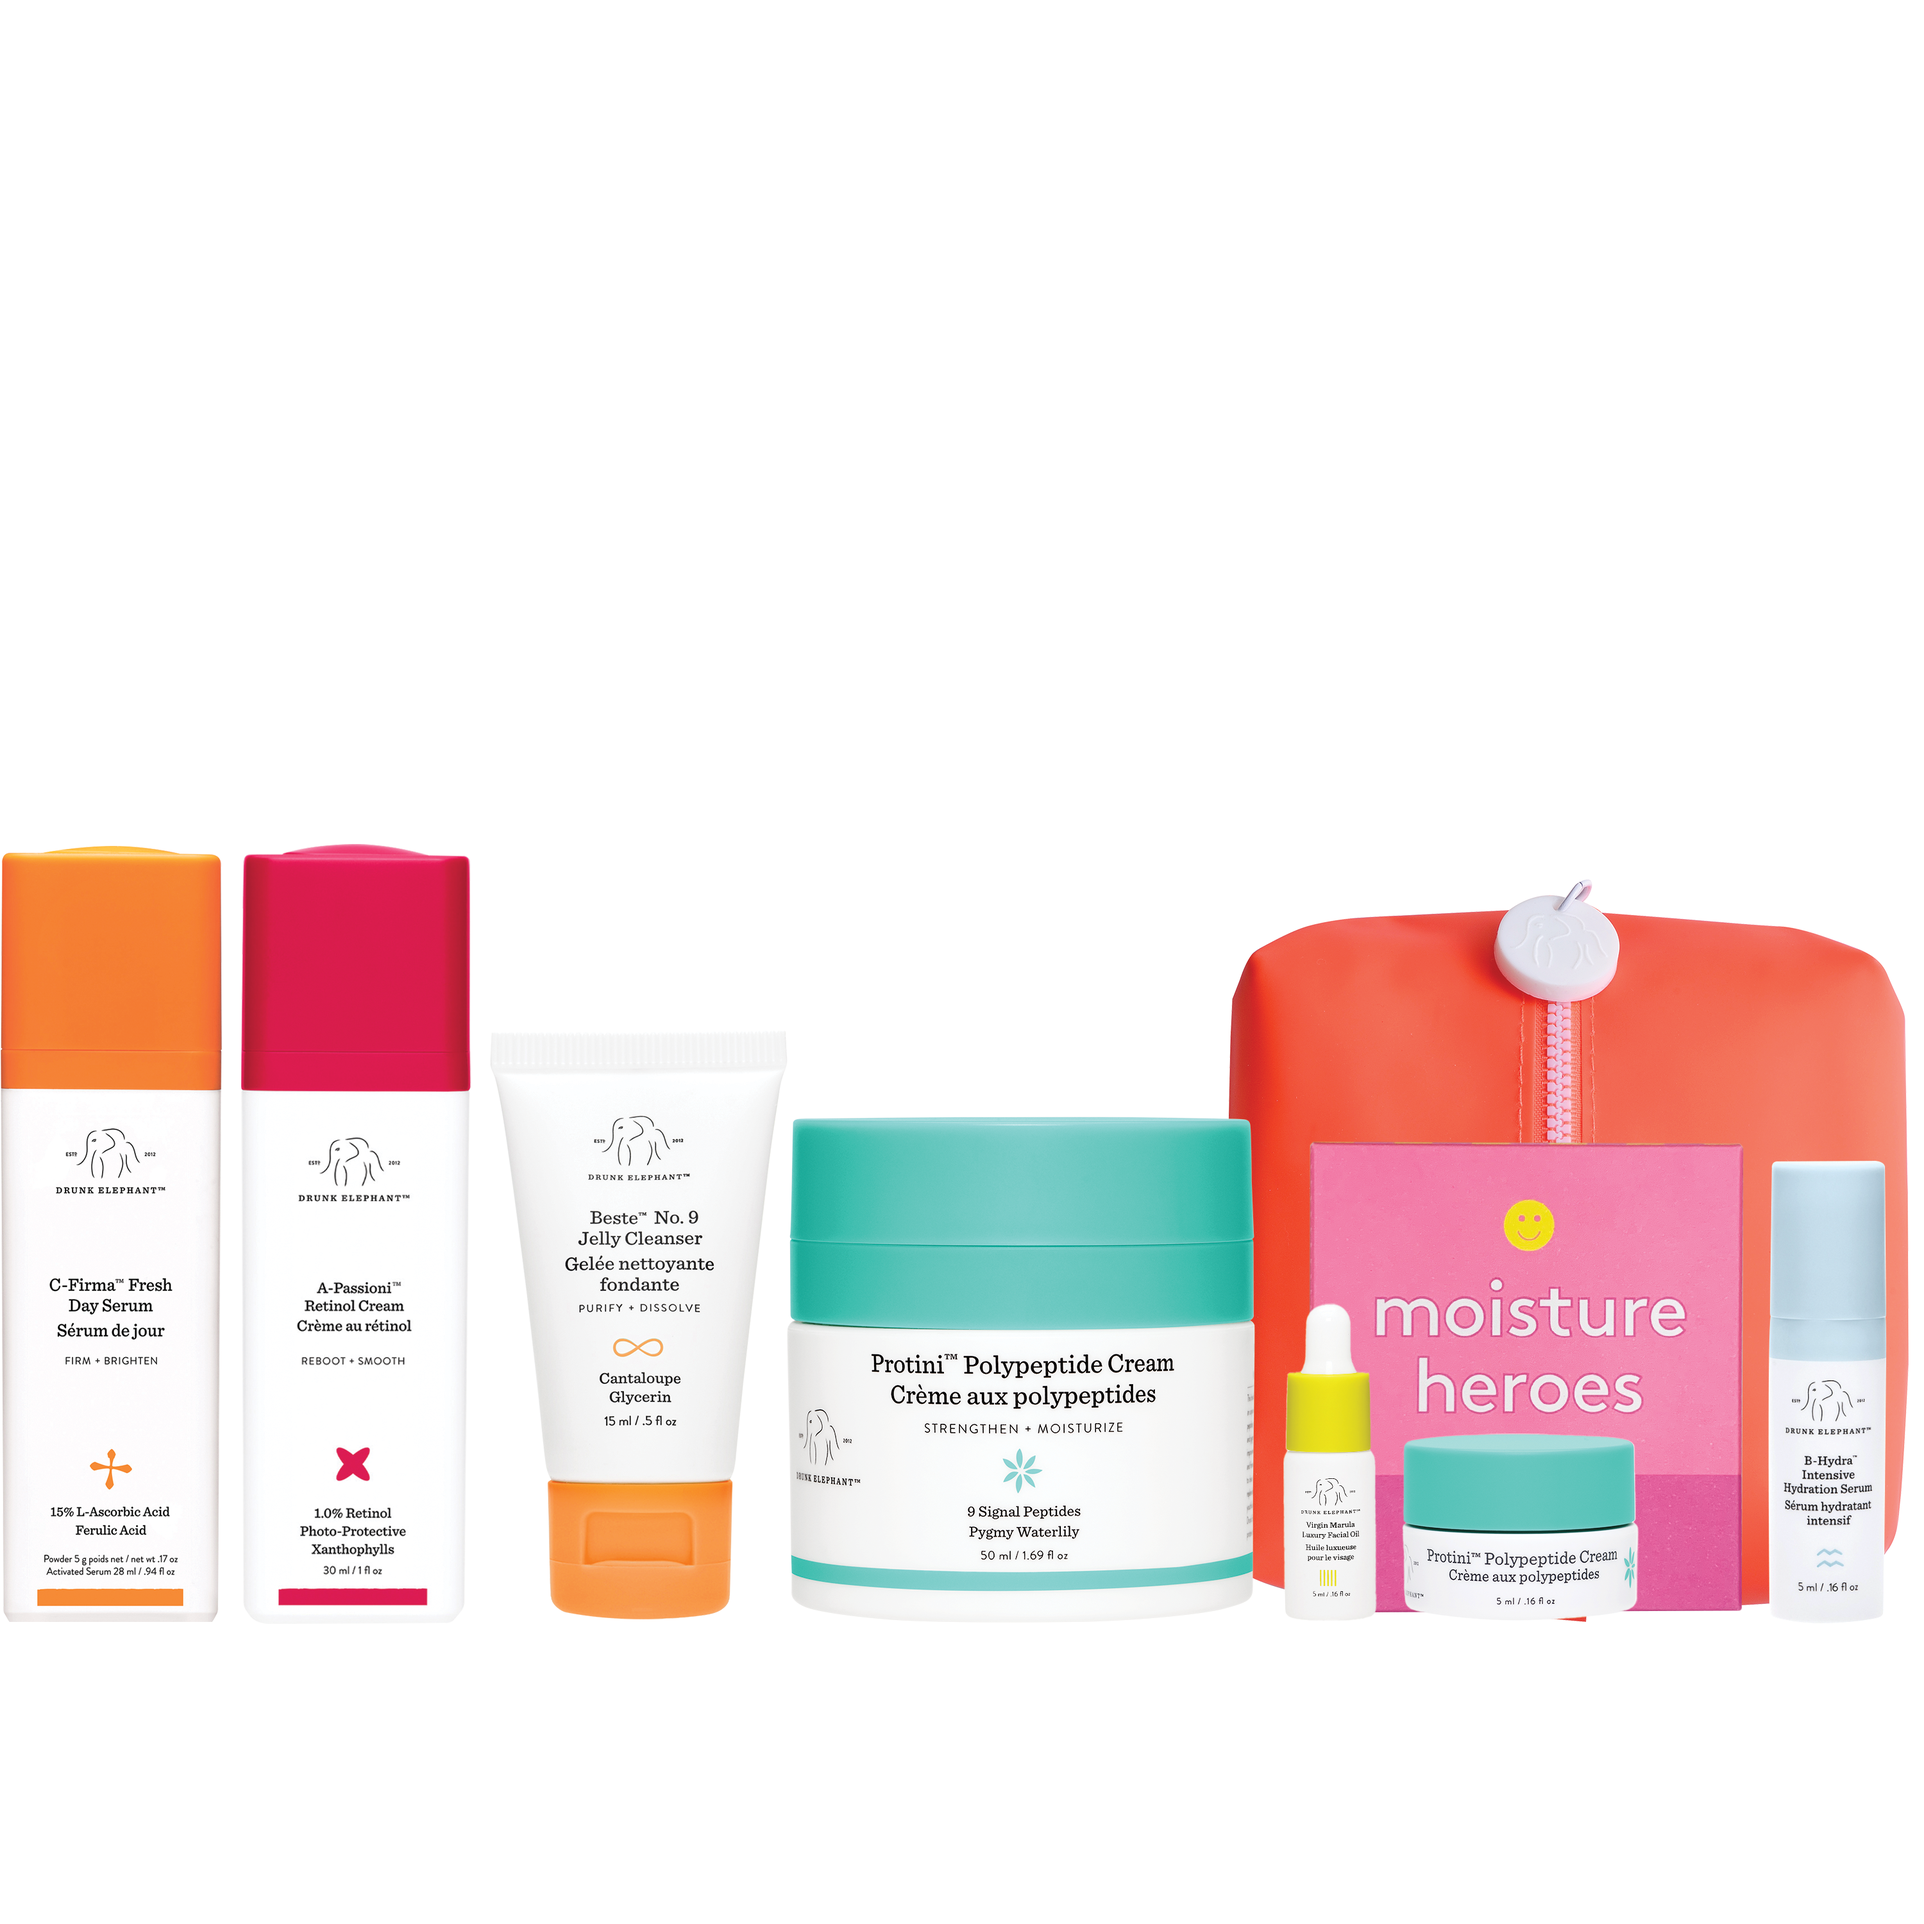
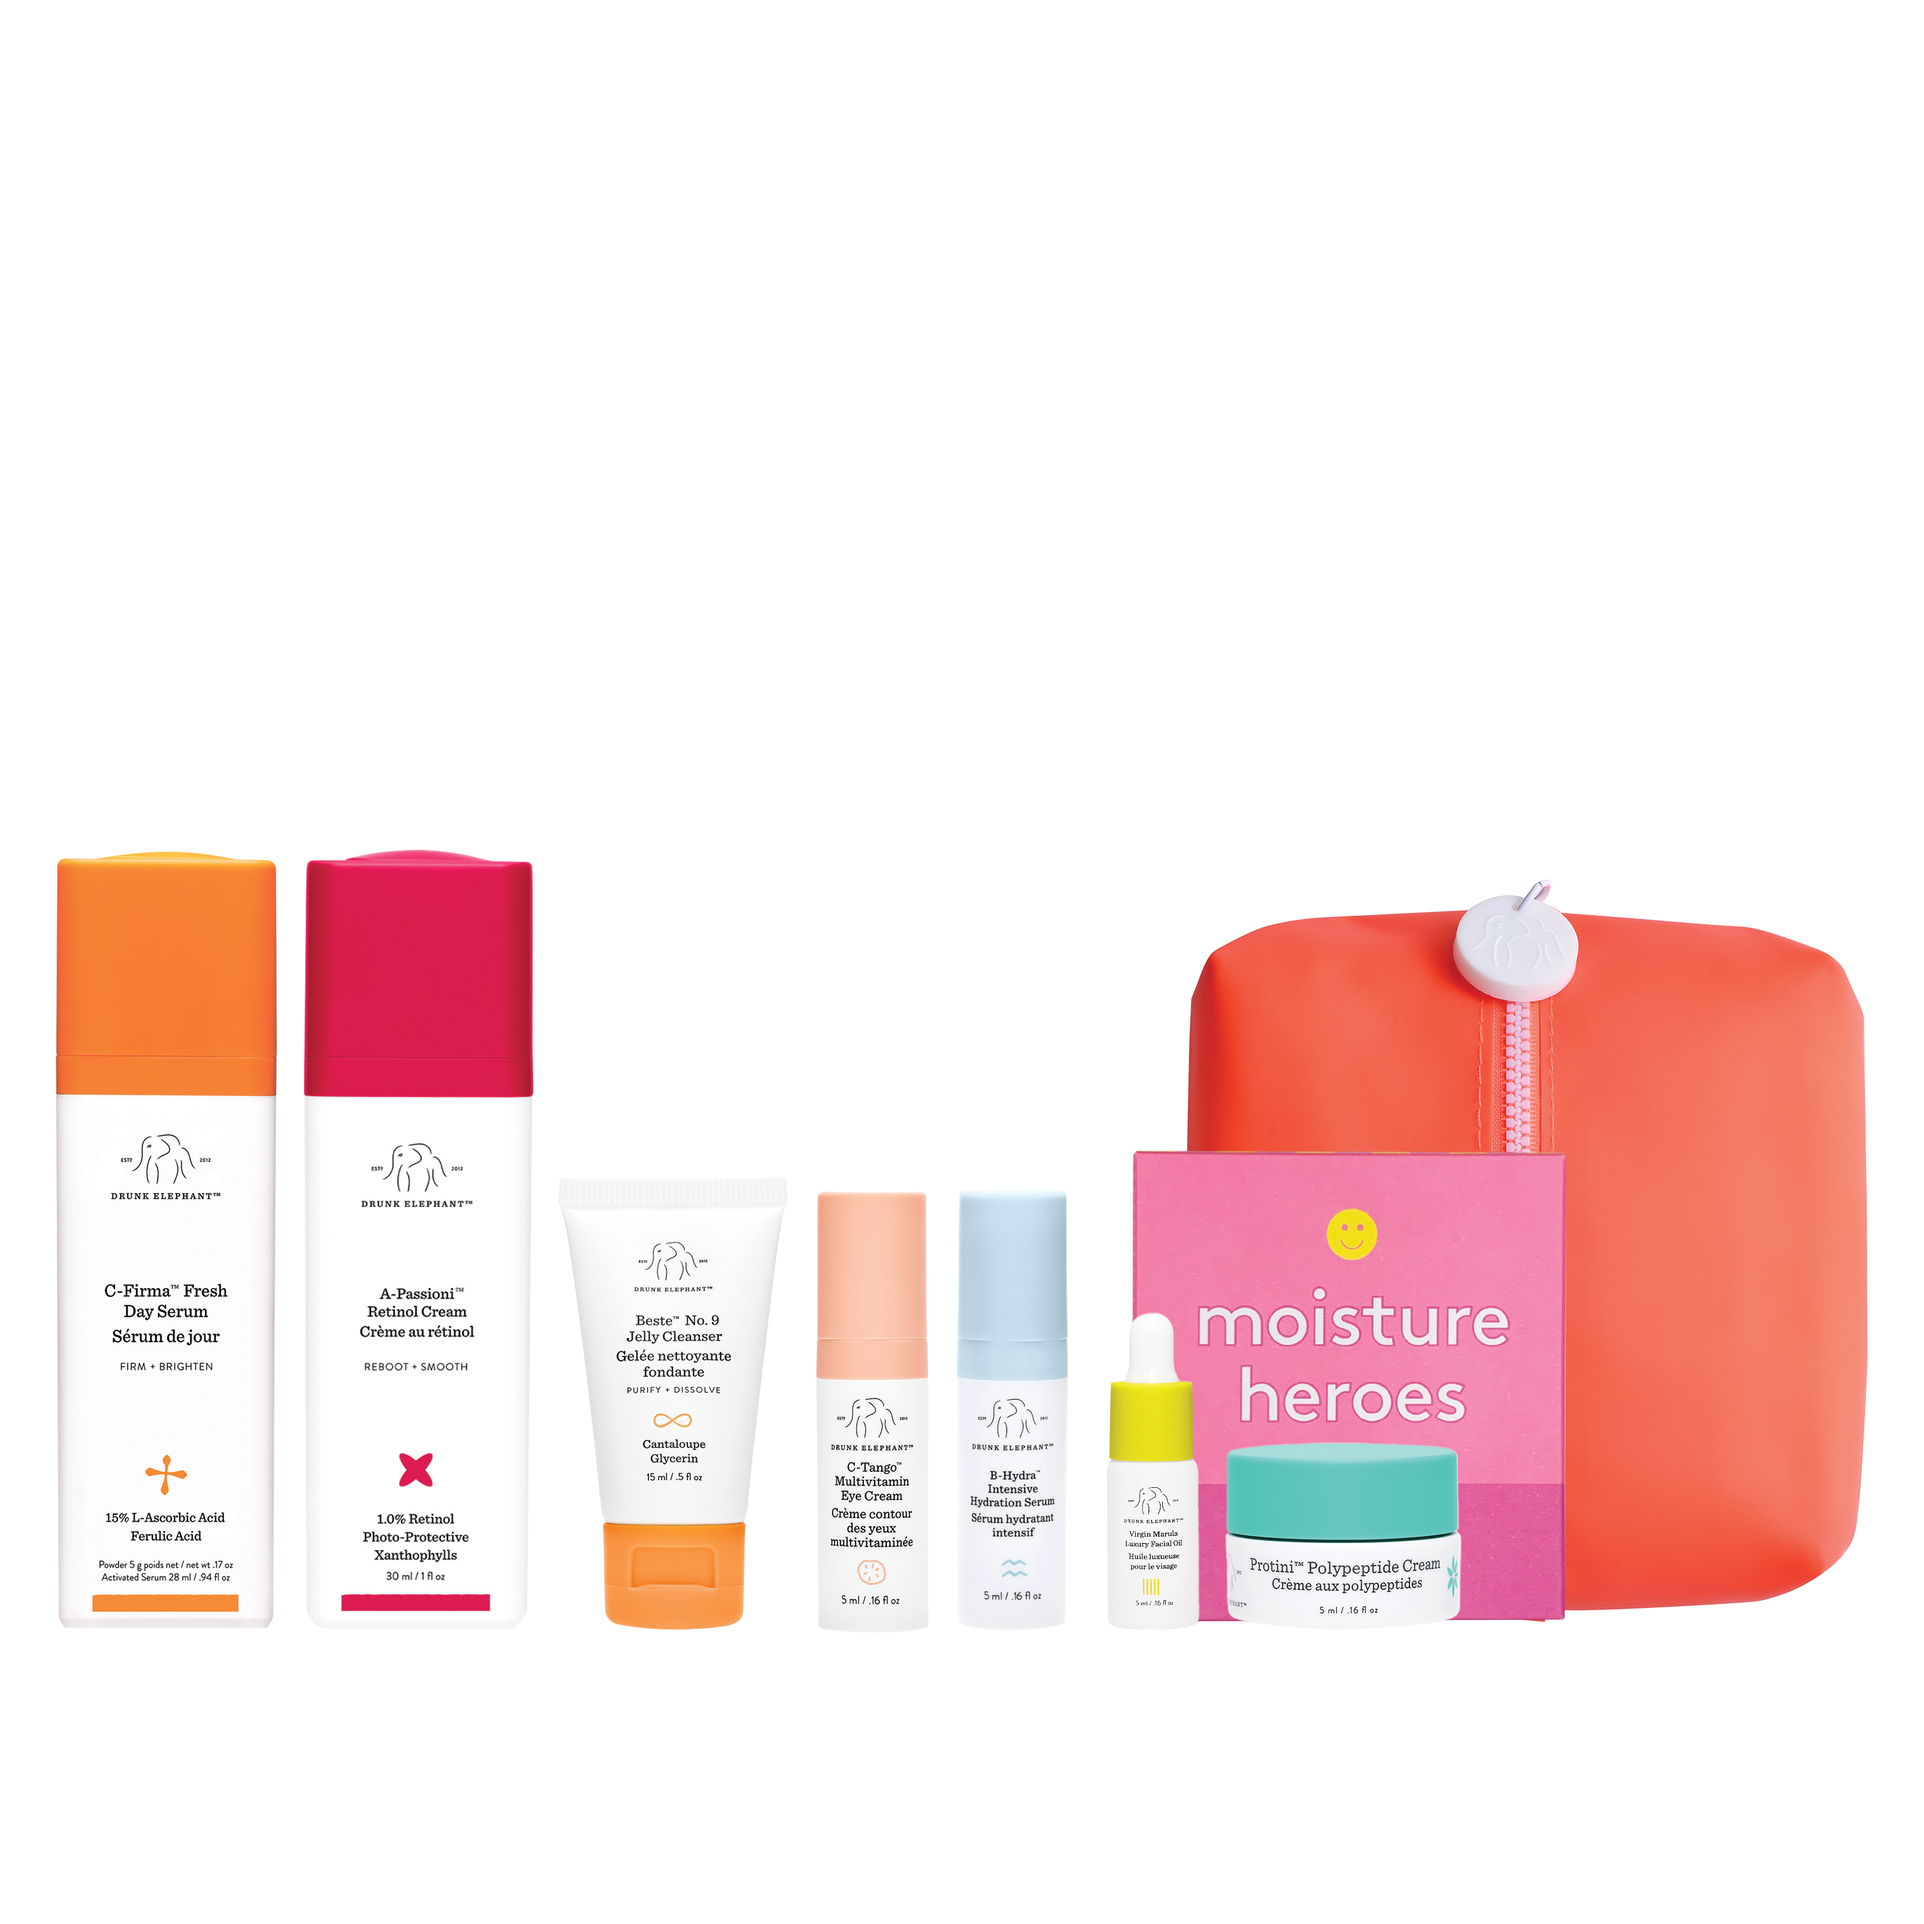
DE 0628 產品調整、kv 按鈕調整

Changed region(s): [[0.279, 0.465, 0.992, 0.868], [0.0, 0.434, 0.279, 0.837]]

diff --git a/css/public.css b/css/public.css
@@ -3131,9 +3131,9 @@ header .ShinKong .text_box .text .span_br { display: block; }
 @media screen and (max-width: 1440px) and (min-width: 1025px) { .banner .banner_box_w .banner_btn_boxs { bottom: 7vw; left: 50%; } }
 @media screen and (max-width: 1024px) and (min-width: 769px) { .banner .banner_box_w .banner_btn_boxs { bottom: 7vw; left: 50%; } }
 @media screen and (max-width: 768px) and (min-width: 451px) { .banner .banner_box_w .banner_btn_boxs { bottom: 16%; left: 50.7%; } }
-@media screen and (max-width: 450px) and (min-width: 376px) { .banner .banner_box_w .banner_btn_boxs { flex-direction: column; bottom: 35%; left: 55%; } }
-@media screen and (max-width: 375px) and (min-width: 321px) { .banner .banner_box_w .banner_btn_boxs { flex-direction: column; bottom: 34%; left: 55.5%; } }
-@media screen and (max-width: 320px) and (min-width: 0) { .banner .banner_box_w .banner_btn_boxs { flex-direction: column; bottom: 35%; left: 55%; } }
+@media screen and (max-width: 450px) and (min-width: 376px) { .banner .banner_box_w .banner_btn_boxs { flex-direction: column; bottom: 36.5%; left: 56.5%; } }
+@media screen and (max-width: 375px) and (min-width: 321px) { .banner .banner_box_w .banner_btn_boxs { flex-direction: column; bottom: 35.5%; left: 56.5%; } }
+@media screen and (max-width: 320px) and (min-width: 0) { .banner .banner_box_w .banner_btn_boxs { flex-direction: column; bottom: 36%; left: 57%; } }
 .banner .banner_box_w .banner_btn_boxs .banner_btn_box:nth-of-type(1) { margin-right: 2.5rem; }
 .banner .banner_box_w .banner_btn_boxs .banner_btn_box:nth-of-type(2) { margin-left: 2.5rem; }
 @media screen and (max-width: 1440px) and (min-width: 1025px) { .banner .banner_box_w .banner_btn_boxs .banner_btn_box:nth-of-type(1) { margin-right: 1.75rem; }
@@ -3142,27 +3142,27 @@ header .ShinKong .text_box .text .span_br { display: block; }
   .banner .banner_box_w .banner_btn_boxs .banner_btn_box:nth-of-type(2) { margin-left: 1rem; } }
 @media screen and (max-width: 768px) and (min-width: 451px) { .banner .banner_box_w .banner_btn_boxs .banner_btn_box:nth-of-type(1) { margin-right: 1rem; }
   .banner .banner_box_w .banner_btn_boxs .banner_btn_box:nth-of-type(2) { margin-left: 1rem; } }
-@media screen and (max-width: 450px) and (min-width: 376px) { .banner .banner_box_w .banner_btn_boxs .banner_btn_box:nth-of-type(1) { margin-right: 0; margin-bottom: .3rem; }
-  .banner .banner_box_w .banner_btn_boxs .banner_btn_box:nth-of-type(2) { margin-top: .3rem; margin-left: 0; } }
-@media screen and (max-width: 375px) and (min-width: 321px) { .banner .banner_box_w .banner_btn_boxs .banner_btn_box:nth-of-type(1) { margin-right: 0; margin-bottom: .3rem; }
-  .banner .banner_box_w .banner_btn_boxs .banner_btn_box:nth-of-type(2) { margin-top: .3rem; margin-left: 0; } }
+@media screen and (max-width: 450px) and (min-width: 376px) { .banner .banner_box_w .banner_btn_boxs .banner_btn_box:nth-of-type(1) { margin-right: 0; margin-bottom: .5rem; }
+  .banner .banner_box_w .banner_btn_boxs .banner_btn_box:nth-of-type(2) { margin-top: .5rem; margin-left: 0; } }
+@media screen and (max-width: 375px) and (min-width: 321px) { .banner .banner_box_w .banner_btn_boxs .banner_btn_box:nth-of-type(1) { margin-right: 0; margin-bottom: .5rem; }
+  .banner .banner_box_w .banner_btn_boxs .banner_btn_box:nth-of-type(2) { margin-top: .5rem; margin-left: 0; } }
 @media screen and (max-width: 320px) and (min-width: 0) { .banner .banner_box_w .banner_btn_boxs .banner_btn_box:nth-of-type(1) { margin-right: 0; margin-bottom: .3rem; }
   .banner .banner_box_w .banner_btn_boxs .banner_btn_box:nth-of-type(2) { margin-top: .3rem; margin-left: 0; } }
 .banner .banner_box_w .banner_btn_boxs .banner_btn_box .tip { display: inline-block; margin-top: 1rem; letter-spacing: 2px; color: #fff; }
 @media screen and (max-width: 1024px) and (min-width: 451px) { .banner .banner_box_w .banner_btn_boxs .banner_btn_box .tip { font-size: 12px; } }
 @media screen and (max-width: 450px) and (min-width: 0) { .banner .banner_box_w .banner_btn_boxs .banner_btn_box .tip { display: none; } }
-.banner .banner_box_w .banner_btn_boxs .banner_btn { padding: 1.5rem 0; width: 350px; background-color: #fff; border-radius: 2px; cursor: pointer; }
+.banner .banner_box_w .banner_btn_boxs .banner_btn { padding: 1.5rem 0; width: 350px; background-color: #fff; box-shadow: 6px 6px 0 #d65a7f; border: 1px solid #d65a7f; border-radius: 2px; cursor: pointer; }
 @media screen and (max-width: 1920px) and (min-width: 1441px) { .banner .banner_box_w .banner_btn_boxs .banner_btn { width: 300px; padding: 1rem 0; } }
 @media screen and (max-width: 1440px) and (min-width: 1025px) { .banner .banner_box_w .banner_btn_boxs .banner_btn { width: 220px; padding: 1rem 0; } }
 @media screen and (max-width: 1024px) and (min-width: 769px) { .banner .banner_box_w .banner_btn_boxs .banner_btn { width: 160px; padding: .5rem 0; } }
 @media screen and (max-width: 768px) and (min-width: 451px) { .banner .banner_box_w .banner_btn_boxs .banner_btn { width: 110px; padding: .5rem 0; } }
-@media screen and (max-width: 450px) and (min-width: 376px) { .banner .banner_box_w .banner_btn_boxs .banner_btn { width: 145px; padding: .5rem 0; } }
-@media screen and (max-width: 375px) and (min-width: 321px) { .banner .banner_box_w .banner_btn_boxs .banner_btn { width: 130px; padding: .5rem 0; } }
-@media screen and (max-width: 320px) and (min-width: 0) { .banner .banner_box_w .banner_btn_boxs .banner_btn { width: 110px; padding: .25rem; } }
-.banner .banner_box_w .banner_btn_boxs .banner_btn span { font-size: 2vw; font-weight: normal; font-family: 'NotoSans TC', sans-serif; letter-spacing: 2px; color: #ff3694; vertical-align: middle; }
+@media screen and (max-width: 450px) and (min-width: 376px) { .banner .banner_box_w .banner_btn_boxs .banner_btn { width: 135px; box-shadow: 3px 3px 0 #d65a7f; padding: .3rem 0; } }
+@media screen and (max-width: 375px) and (min-width: 321px) { .banner .banner_box_w .banner_btn_boxs .banner_btn { box-shadow: 3px 3px 0 #d65a7f; width: 120px; padding: .3rem 0; } }
+@media screen and (max-width: 320px) and (min-width: 0) { .banner .banner_box_w .banner_btn_boxs .banner_btn { box-shadow: 3px 3px 0 #d65a7f; width: 100px; padding: .25rem; } }
+.banner .banner_box_w .banner_btn_boxs .banner_btn span { font-size: 2vw; font-weight: bold; font-family: 'NotoSans TC', sans-serif; letter-spacing: 2px; color: #ff3694; vertical-align: middle; }
 @media screen and (max-width: 450px) and (min-width: 321px) { .banner .banner_box_w .banner_btn_boxs .banner_btn span { font-size: 4vw; } }
 @media screen and (max-width: 320px) and (min-width: 0) { .banner .banner_box_w .banner_btn_boxs .banner_btn span { font-size: 3vw; } }
-.banner .banner_box_w .banner_btn_boxs .banner_btn a { font-size: 2vw; font-weight: normal; font-family: 'NotoSans TC', sans-serif; letter-spacing: 2px; color: #ff3694; text-decoration: none; vertical-align: middle; }
+.banner .banner_box_w .banner_btn_boxs .banner_btn a { font-size: 2vw; font-weight: bold; font-family: 'NotoSans TC', sans-serif; letter-spacing: 2px; color: #ff3694; text-decoration: none; vertical-align: middle; }
 @media screen and (max-width: 450px) and (min-width: 321px) { .banner .banner_box_w .banner_btn_boxs .banner_btn a { font-size: 4vw; } }
 @media screen and (max-width: 320px) and (min-width: 0) { .banner .banner_box_w .banner_btn_boxs .banner_btn a { font-size: 3vw; } }
 .banner .banner_box_m { position: relative; }

diff --git a/scss/public.scss b/scss/public.scss
@@ -198,20 +198,20 @@ header {
 
 			@include range-width(376px, 451px) {
 				flex-direction: column;
-				bottom: 35%;
-				left: 55%;
+				bottom: 36.5%;
+				left: 56.5%;
 			}
 
 			@include range-width(321px, 376px) {
 				flex-direction: column;
-				bottom: 34%;
-				left: 55.5%;
+				bottom: 35.5%;
+				left: 56.5%;
 			}
 
 			@include range-width(0, 321px) {
 				flex-direction: column;
-				bottom: 35%;
-				left: 55%;
+				bottom: 36%;
+				left: 57%;
 			}
 
 			.banner_btn_box {
@@ -257,11 +257,11 @@ header {
 				@include range-width(376px, 451px) {
 					&:nth-of-type(1) {
 						margin-right: 0;
-						margin-bottom: .3rem;
+						margin-bottom: .5rem;
 					}
 					
 					&:nth-of-type(2) {
-						margin-top: .3rem;
+						margin-top: .5rem;
 						margin-left: 0;
 					}
 				}
@@ -269,11 +269,11 @@ header {
 				@include range-width(321px, 376px) {
 					&:nth-of-type(1) {
 						margin-right: 0;
-						margin-bottom: .3rem;
+						margin-bottom: .5rem;
 					}
 					
 					&:nth-of-type(2) {
-						margin-top: .3rem;
+						margin-top: .5rem;
 						margin-left: 0;
 					}
 				}
@@ -311,6 +311,8 @@ header {
 				padding: 1.5rem 0;
 				width: 350px;
 				background-color: #fff; 
+				box-shadow: 6px 6px 0 rgba(214, 90, 127, 1.00);
+				border: 1px solid rgba(214, 90, 127, 1.00);
 				border-radius: 2px;
 				cursor: pointer;
 
@@ -335,23 +337,26 @@ header {
 				}
 
 				@include range-width(376px, 451px) {
-					width: 145px;
-					padding: .5rem 0;
+					width: 135px;
+					box-shadow: 3px 3px 0 rgba(214, 90, 127, 1.00);
+					padding: .3rem 0;
 				}
 
 				@include range-width(321px, 376px) {
-					width: 130px;
-					padding: .5rem 0;
+					box-shadow: 3px 3px 0 rgba(214, 90, 127, 1.00);
+					width: 120px;
+					padding: .3rem 0;
 				}
 
 				@include range-width(0, 321px) {
-					width: 110px;
+					box-shadow: 3px 3px 0 rgba(214, 90, 127, 1.00);
+					width: 100px;
 					padding: .25rem;
 				}
 				
 				span {
 					font-size: 2vw;
-					font-weight: normal;
+					font-weight: bold;
 					font-family: 'NotoSans TC', sans-serif;
 					letter-spacing: 2px;
 					color: rgba(255, 54, 148, 1.00);
@@ -368,7 +373,7 @@ header {
 
 				a {
 					font-size: 2vw;
-					font-weight: normal;
+					font-weight: bold;
 					font-family: 'NotoSans TC', sans-serif;
 					letter-spacing: 2px;
 					color: rgba(255, 54, 148, 1.00);

diff --git a/index.html b/index.html
@@ -39,7 +39,7 @@
 			<div class="banner_box_w">
 				<picture class="fade-in">
 					<!-- 20230626 熱銷特惠組 kv start -->
-					<source srcset="img/banner_0626_m3.jpg 2x" media="(max-width: 450px)">
+					<source srcset="img/banner_0626_m3.png 2x" media="(max-width: 450px)">
 					<img src="img/banner_0626_2.jpg" alt="">
 					<!-- 20230626 熱銷特惠組 調整 kv end -->
 				</picture>
@@ -308,6 +308,7 @@
 							<p>A醇抗老精華乳<span class="font-pops">30ml</span></p>
 							<p>維他命C活膚日間精華<span class="font-pops">28ml</span></p>
 							<p>水飽飽維他命B5保濕精華<span class="font-pops">5ml</span></p>
+							<p>綜合維他命眼霜<span class="font-pops">5ml</span></p>
 							<p>多胜肽緊緻抗老霜<span class="font-pops">5ml</span></p>
 							<p>瑪魯拉奢華美顏油<span class="font-pops">5ml</span></p>
 							<p>No.9多效潔顏凝膠<span class="font-pops">15ml</span></p>
@@ -406,7 +407,7 @@
 							1+1美肌開很大組
 						</h2>
 						<div class="contents">
-							<p>A多胜肽緊緻抗老霜<span class="font-pops">55ml</span></p>
+							<p>多胜肽緊緻抗老霜<span class="font-pops">55ml</span></p>
 							<p>醉象任一精華 (不含水飽飽維他命B5保濕精華 50ml)</p>
 							<p>多胜肽緊緻精華<span class="font-pops">5ml</span></p>
 							<p>瑪魯拉奢華美顏油<span class="font-pops">5ml</span></p>
@@ -431,7 +432,7 @@
 							防曬雙入狂歡組
 						</h2>
 						<div class="contents">
-							<p>醉象防曬Umbra系列任選2支 (可同品項)</p>
+							<p>任選2支防曬Umbra系列(可選擇同品項)</p>
 							<p>No.9 多效潔顏凝膠<span class="font-pops">30ml</span></p>
 							<p>品牌限定化妝包(隨機出貨恕不指定)</p>
 						</div>
@@ -491,7 +492,9 @@
 				<table class="table online">
 					<tbody>
 						<tr>
-						<td width="30%">醉像官網</td>
+						<!-- 20230626 文字調整 start -->
+						<td width="30%">醉象官網</td>
+						<!-- 20230626 文字調整 end -->
 						<td width="70%"><a href="https://www.drunkelephant.com.tw/" target="blank">立即前往</a></td>
 					  </tr>
 					  <tr>
